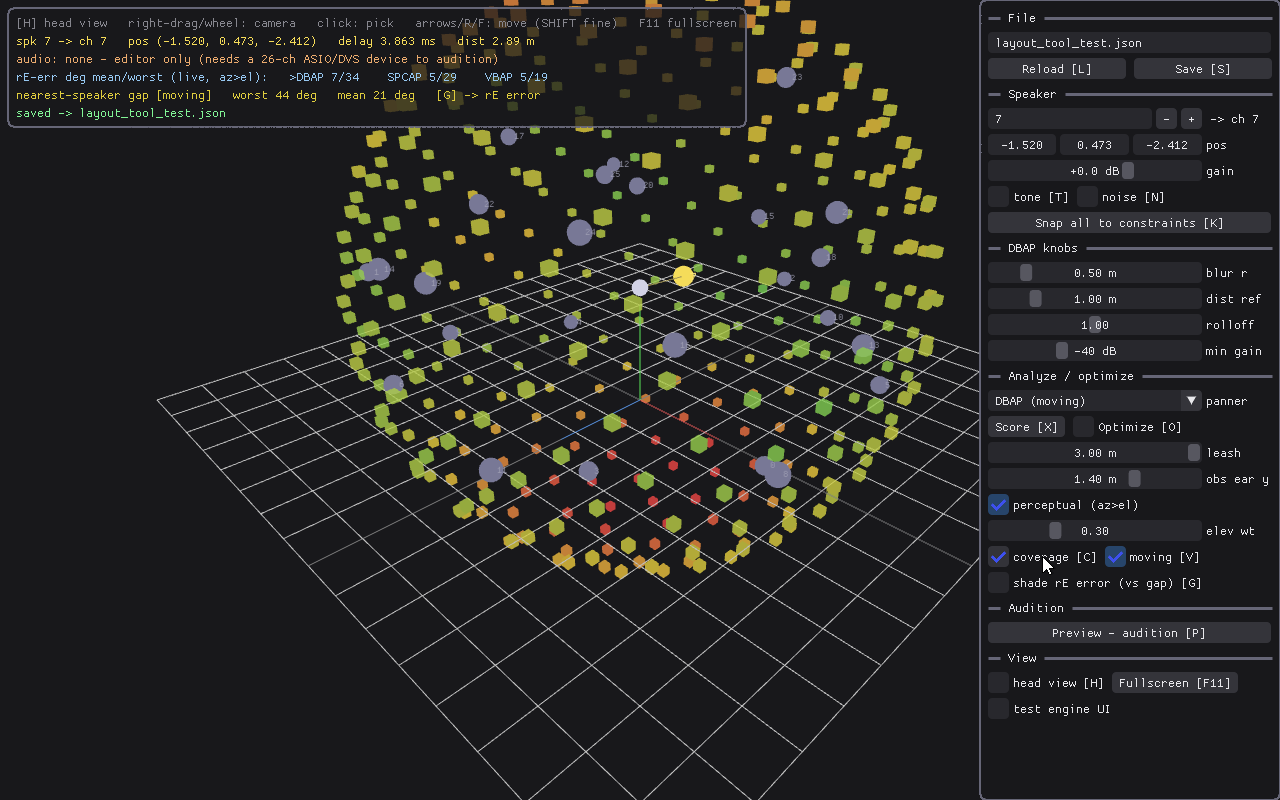
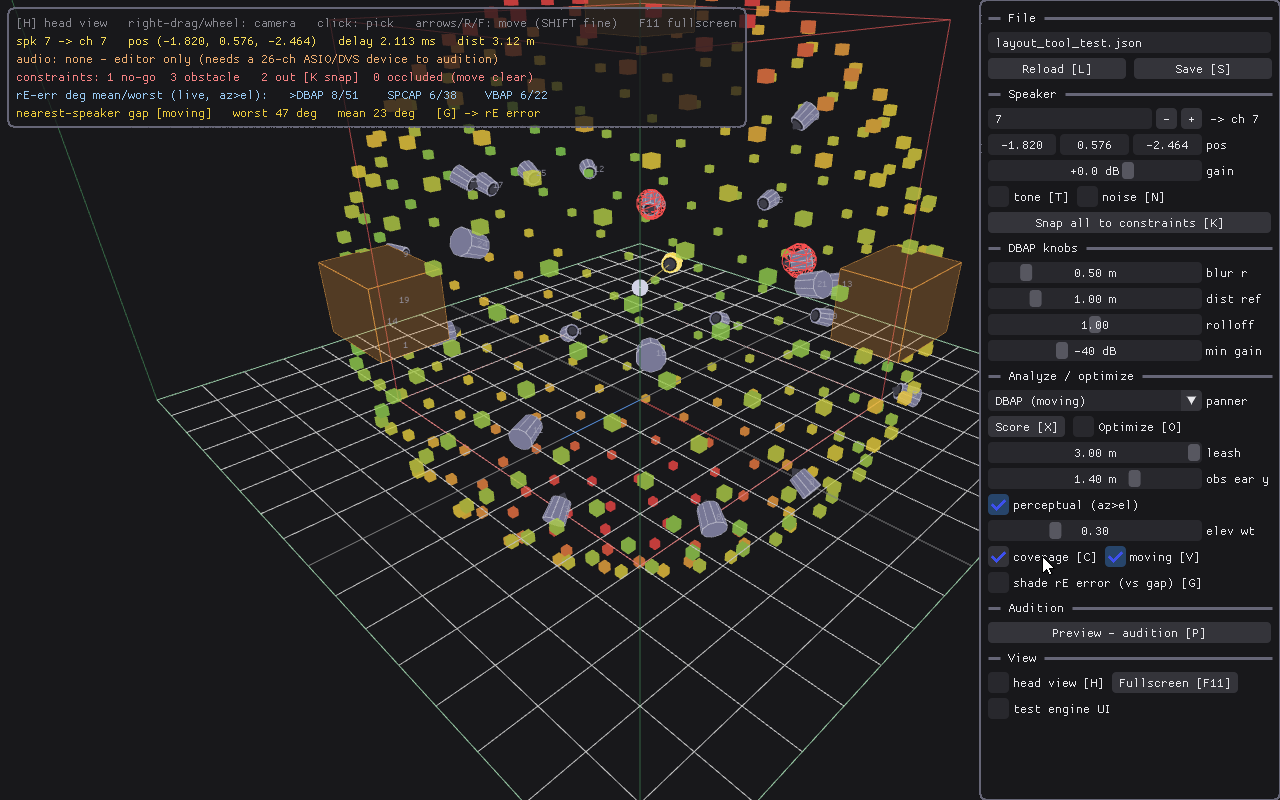
speaker gizmo: wireframe cabinet outline
A brightened-body wire pass over the tapered cabinet gives every speaker
glyph a crisp silhouette against the dark scene (flat-lit primitives
otherwise melt together at distance). One change in speaker_gizmo.h covers
both tools; README screenshots refreshed - the layout-tool shot also picks
up the constraint boxes and cone gizmos it predated.

diff --git a/examples/speaker_gizmo.h b/examples/speaker_gizmo.h
@@ -20,12 +20,18 @@ static inline void draw_speaker_gizmo(Vector3 pos, Vector3 aim_at, float scale, 
 
     Color grille; grille.r = 30; grille.g = 30; grille.b = 36; grille.a = 255;
     Color cone;   cone.r   = 62; cone.g   = 62; cone.b   = 72; cone.a   = 255;
+    Color wire;                                            /* brightened body -> a crisp cabinet silhouette */
+    wire.r = (unsigned char)(body.r + (255 - body.r) / 2);
+    wire.g = (unsigned char)(body.g + (255 - body.g) / 2);
+    wire.b = (unsigned char)(body.b + (255 - body.b) / 2);
+    wire.a = 220;
 
     Vector3 back   = Vector3Subtract(pos, Vector3Scale(a, 0.55f * scale));
     Vector3 front  = Vector3Add(pos, Vector3Scale(a, 0.45f * scale));
     Vector3 f_rim  = Vector3Add(front, Vector3Scale(a, 0.05f * scale));
     Vector3 f_apex = Vector3Add(front, Vector3Scale(a, 0.34f * scale));
     DrawCylinderEx(back, front, 0.50f * scale, 0.42f * scale, 10, body);    /* cabinet, tapered to the face */
+    DrawCylinderWiresEx(back, front, 0.50f * scale, 0.42f * scale, 10, wire);   /* wireframe outline */
     DrawCylinderEx(front, f_rim, 0.34f * scale, 0.32f * scale, 12, grille); /* driver surround */
     DrawCylinderEx(f_rim, f_apex, 0.27f * scale, 0.04f * scale, 12, cone);  /* the cone, at the listener */
 }
